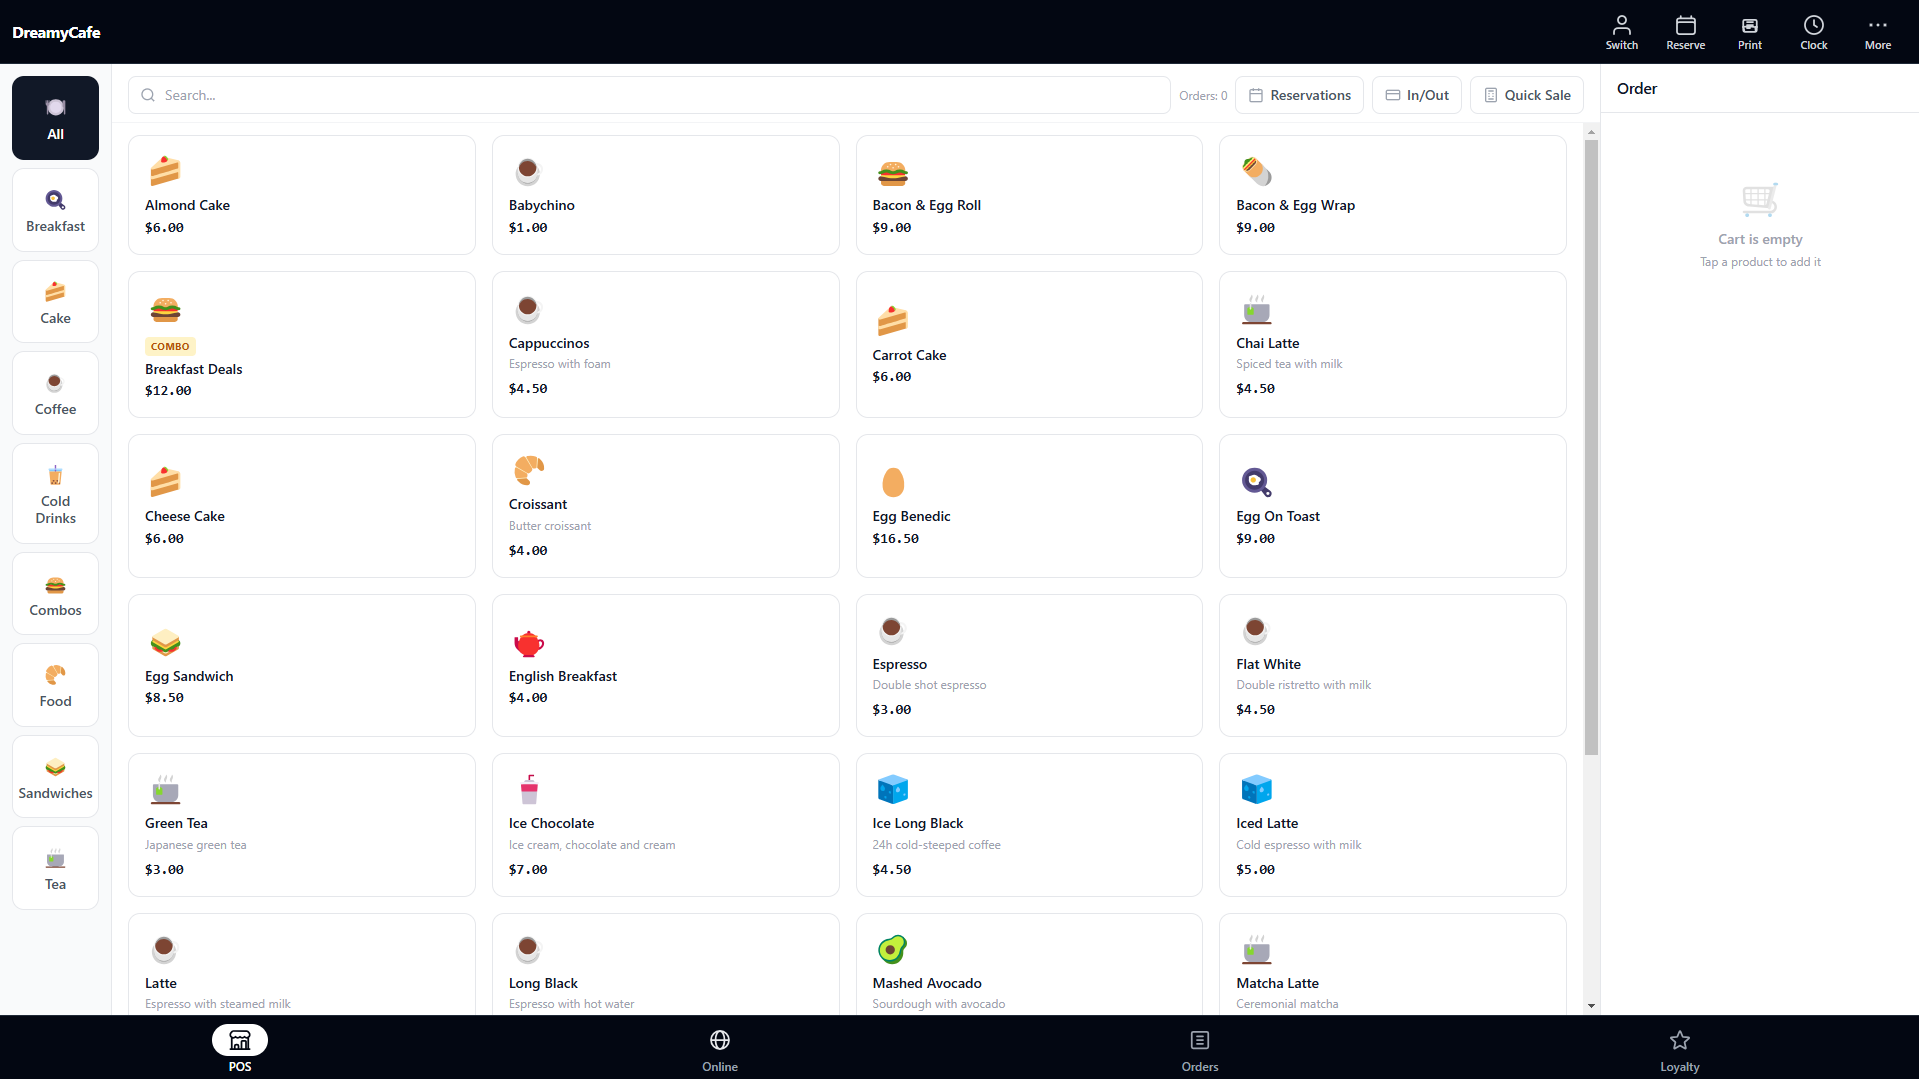
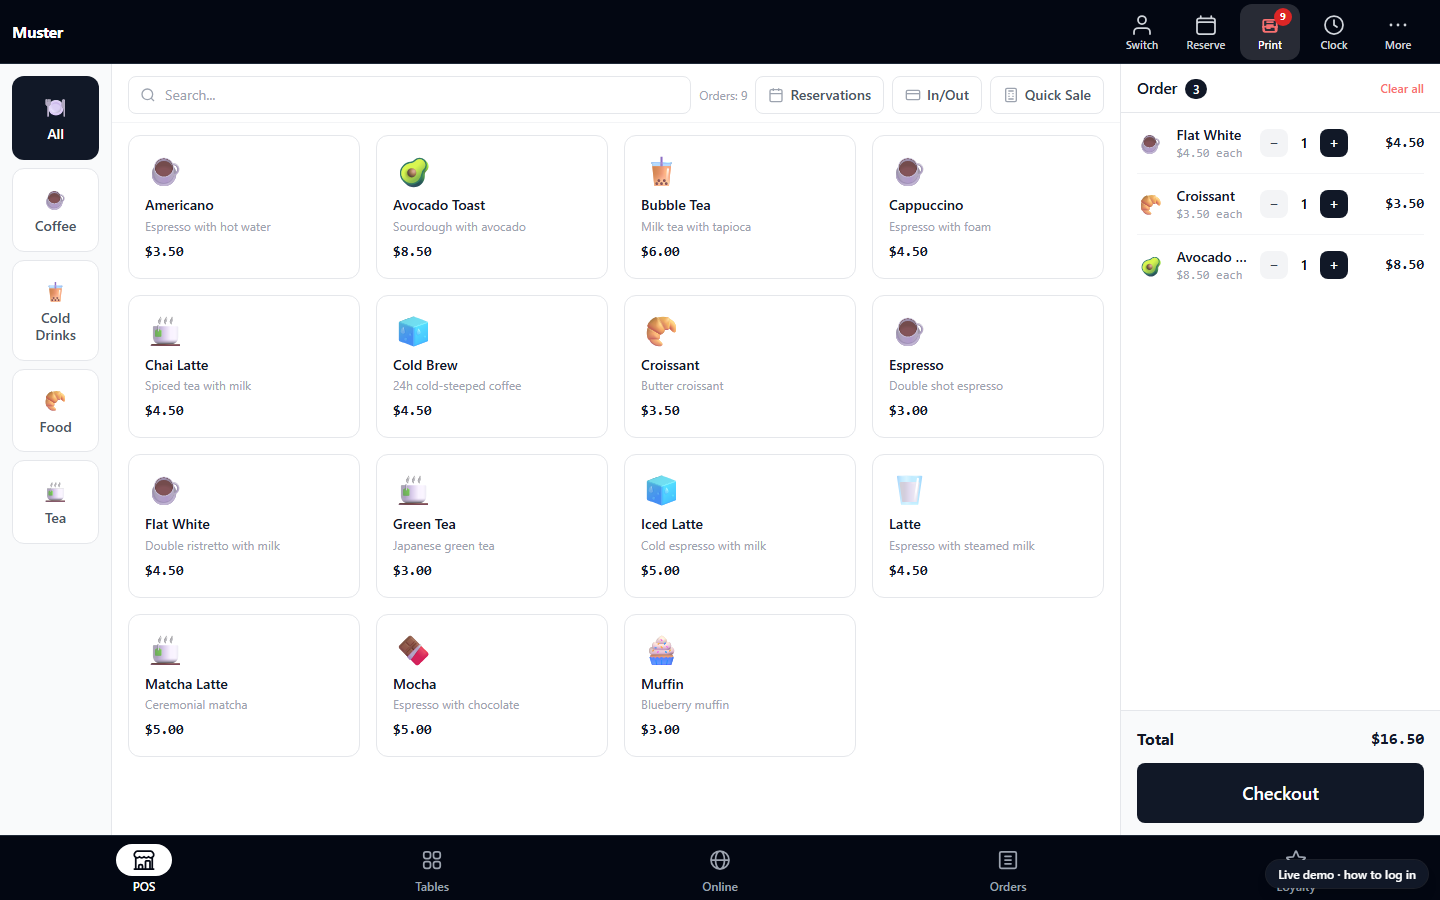
Update README with improved demo data description and add new screenshots for online ordering, sales history, stock count, timesheets, and reservations

diff --git a/README.md b/README.md
@@ -30,7 +30,7 @@ of this snapshot. I’m happy to walk through it in an interview.
 | **Manager** | `1234` | Menu, cash sessions, sales, timesheets, stock |
 | **Owner** | `0000` | Everything above, plus reports, payroll, users, payment settings |
 
-_Seeded demo data, wiped and reseeded nightly. The demo runs the same code as the shop, minus the printers, card terminal and LAN zone lock. It is pinned to an earlier build, so it does not show the Linkly terminal or later changes._
+_Sample data, reset nightly, so each day starts with no sales or stock and the till closed. To try the full flow, sign in as Owner and open the till under Routine. The demo runs the same code as the shop, minus the printers, card terminal and LAN zone lock. It is pinned to an earlier build, so it does not show the Linkly terminal or later changes._
 
 ![Ringing up an order on the staff till](docs/screenshots/pos-order-entry.png)
 
@@ -149,23 +149,37 @@ The Manager session (`manager_session`, 1 h) and Owner session (`admin_session`,
 
 ## Screenshots
 
-**Order entry** — the staff till. Category rail, live search, and a cart that reprices server-side on every change.
+These are from the public demo with sample data, so they show the same build you can try yourself. That build is older than the one running at Ichi Cafe. The combo screen is the one exception: it is from a test build, also with sample data.
 
-![Staff POS order entry screen](docs/screenshots/pos-order-entry.png)
+The till is shown at the top of this page.
 
-**Combos and modifiers** — one product, a tree of choices. Size, milk, syrups, sauces and free-text instructions all fold into a single line item, and the price recomputes as options are picked.
+**Combos and add-ons.** One item with several choices. Size, milk, syrups, sauces and special instructions all fold into one line on the order, and the price updates as options are picked.
 
 ![Combo builder with size, add-on and sauce options](docs/screenshots/combo-modifiers.png)
 
-**Accounting report** — the end-of-day view that has to balance. Net revenue after refunds, split by payment method, channel and card processor, with GST broken out from the `GST_RATE` / `GST_INCLUSIVE` config. Every figure comes off `Decimal(10,2)` columns, never a float.
+**Online ordering.** Customers order for pickup from their phone.
+
+<img src="docs/screenshots/online-ordering-phone.png" alt="Customer online ordering page on a phone" width="320">
+
+**Sales history.** Every sale, searchable by day, with who took it and how it was paid.
+
+![Sales history list](docs/screenshots/sales-history.png)
+
+**Reports.** The end-of-day view the owner uses, with sales by payment type and channel, refunds, discounts and GST.
 
 ![Accounting summary report with GST and payment breakdowns](docs/screenshots/reports-accounting.png)
 
-_Still to capture: split payment, online order + live tracking, and a real docket coming out of the thermal printer — the last one sells the "this is real hardware" story better than any paragraph._
+**Stock count.** Ingredients and supplies, with a clear flag when something is low or out.
 
-> **Screenshots are PII surface.** Anything captured from a live instance can carry a real customer name, phone, or order. Reseed or use fake records before capturing, and check the image itself — the sanitise grep only reads text.
+![Stock count with OK, low and out flags](docs/screenshots/stock-count.png)
 
-<!-- ![POS checkout](docs/screenshots/pos.png) -->
+**Timesheets.** Staff clock in and out at the till, and managers see the hours here.
+
+![Staff timesheets showing clock in, clock out and hours](docs/screenshots/timesheets.png)
+
+**Reservations.** Booking numbers for the week, plus an on-screen reminder for staff before each booking.
+
+![Reservation analytics with bookings by day](docs/screenshots/reservations.png)
 
 ---
 
